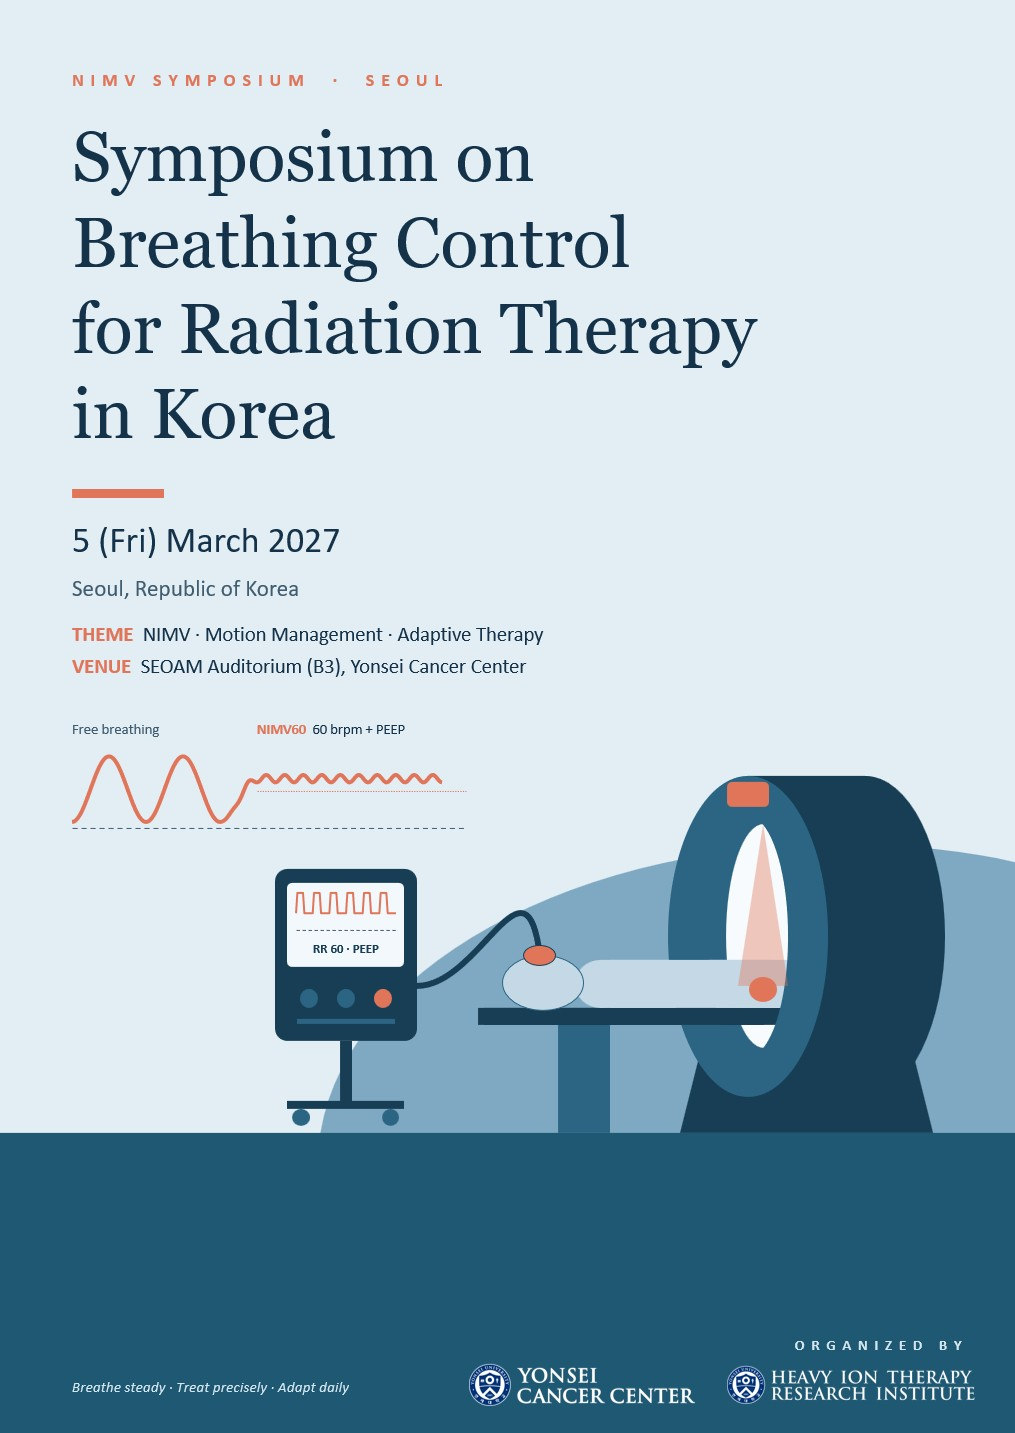
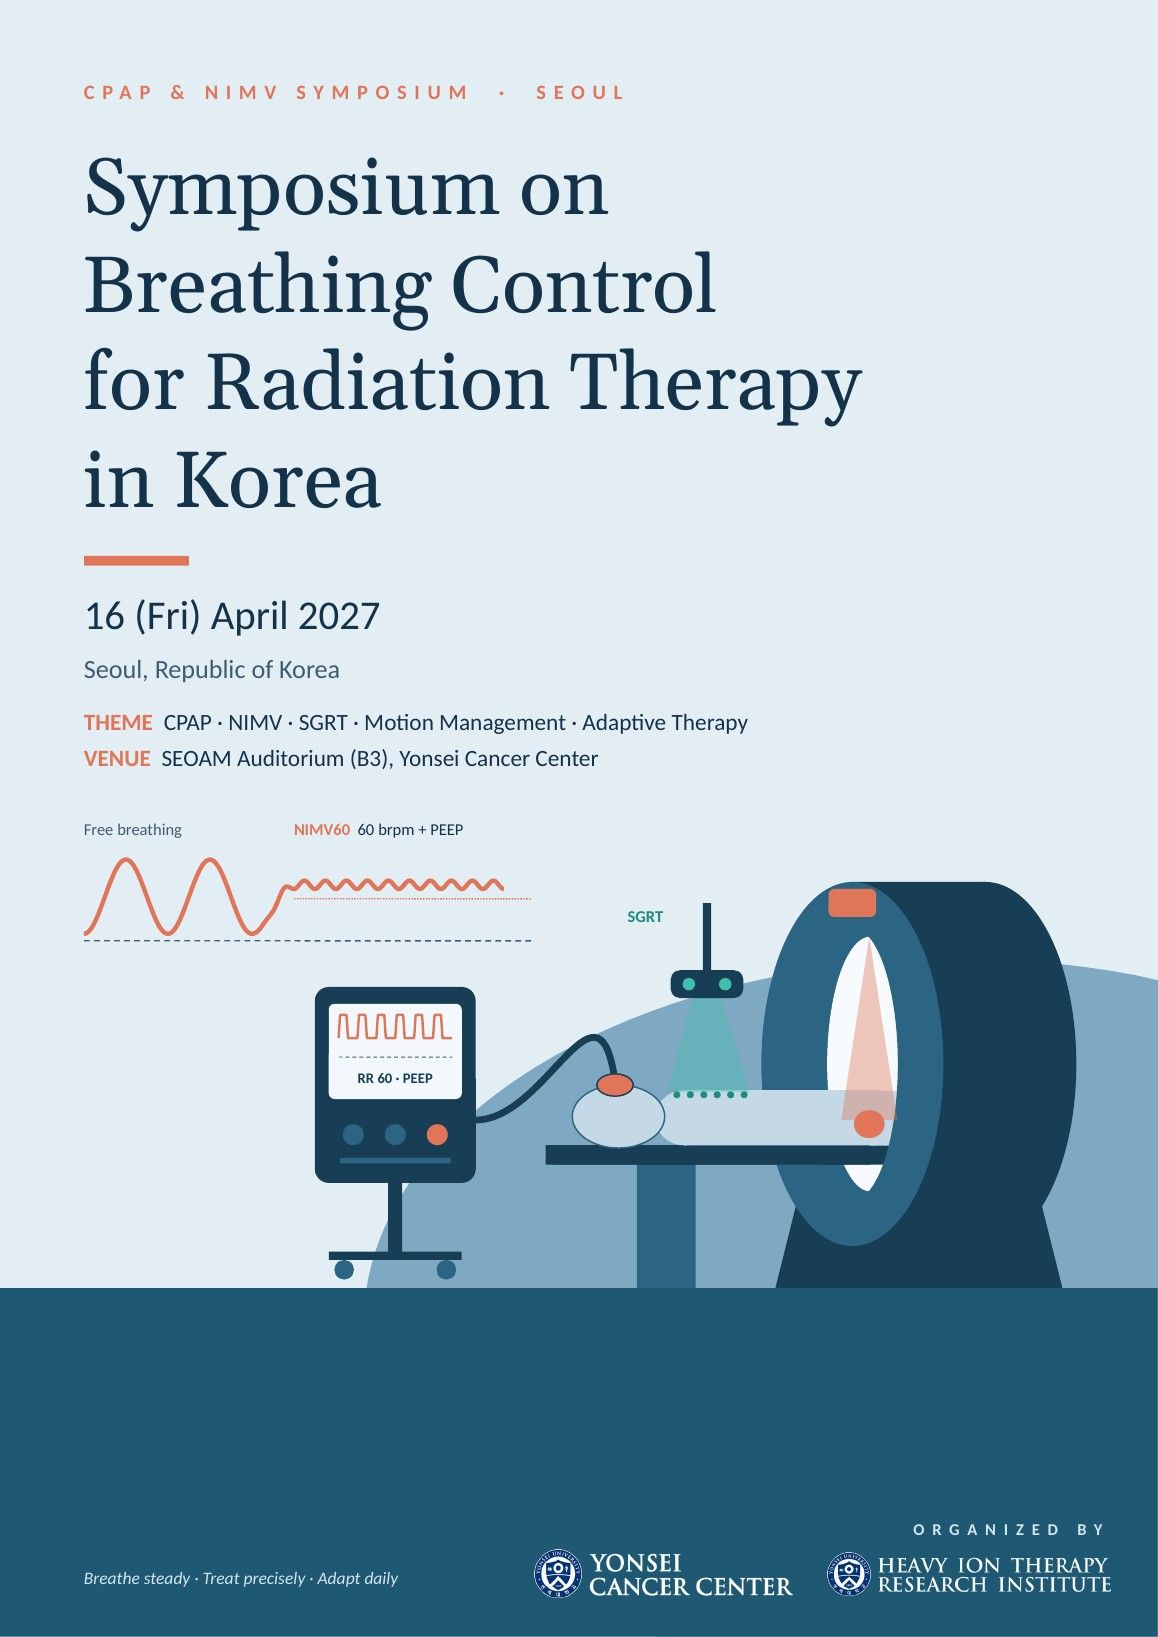
Speaker names, tentative titles (TBD), updated poster

diff --git a/index_en.html b/index_en.html
@@ -123,37 +123,37 @@
       <tr class="session"><td colspan="3"><span class="s-num">SESSION I</span>
         <span class="s-title">CPAP in Clinical Practice</span></td></tr>
       <tr><td class="time">13:10–13:30</td>
-        <td><div class="talk">CPAP</div><div class="who">Dosol Yoo <span>· Dongnam Institute of Radiological &amp; Medical Sciences</span></div></td>
+        <td><div class="talk">CPAP in Stereotactic Ablative Radiotherapy for Lung Tumors (TBD)</div><div class="who">Tosol Yu <span>· Dongnam Institute of Radiological &amp; Medical Sciences</span></div></td>
         <td class="type"><span class="badge badge-md">MD Talk</span></td></tr>
       <tr><td class="time">13:30–13:50</td>
-        <td><div class="talk">CPAP</div><div class="who">Joon Bok Lee <span>· Kangbuk Samsung Hospital</span></div></td>
+        <td><div class="talk">Integrating SGRT and CPAP in Breast Cancer Radiotherapy (TBD)</div><div class="who">Jason Joon Bock Lee <span>· Kangbuk Samsung Hospital</span></div></td>
         <td class="type"><span class="badge badge-md">MD Talk</span></td></tr>
       <tr><td class="time">13:50–14:10</td>
-        <td><div class="talk">CPAP</div><div class="who">Ji Hyun Chang <span>· Seoul National University Hospital</span></div></td>
+        <td><div class="talk">A Phase I/II Trial of CPAP for Heart Sparing in Breast Radiotherapy (TBD)</div><div class="who">Ji Hyun Chang <span>· Seoul National University Hospital</span></div></td>
         <td class="type"><span class="badge badge-md">MD Talk</span></td></tr>
       <tr class="break"><td class="time">14:10–14:30</td><td colspan="2"><div class="talk">Coffee Break</div></td></tr>
       <tr class="session"><td colspan="3"><span class="s-num">SESSION II</span>
         <span class="s-title">Building an NIMV Program</span></td></tr>
       <tr><td class="time">14:30–14:50</td>
-        <td><div class="talk">Implementation of NIMV into Radiation Therapy</div><div class="who">Changhwan Kim <span>· Yonsei Cancer Center</span></div></td>
+        <td><div class="talk">Implementation of NIMV into Radiation Therapy (TBD)</div><div class="who">Changhwan Kim <span>· Yonsei Cancer Center</span></div></td>
         <td class="type"><span class="badge badge-mp">Medical Physics Talk</span></td></tr>
       <tr><td class="time">14:50–15:10</td>
-        <td><div class="talk">Respiratory Education Team</div><div class="who">Jinhong Jung <span>· Asan Medical Center</span></div></td>
+        <td><div class="talk">Building a Respiratory Education Team for Breathing-Controlled Radiotherapy (TBD)</div><div class="who">Jinhong Jung <span>· Asan Medical Center</span></div></td>
         <td class="type"><span class="badge badge-md">MD Talk</span></td></tr>
       <tr><td class="time">15:10–15:30</td>
-        <td><div class="talk">Implementation of NIMV into Particle Therapy</div><div class="who">Sang Hoon Jung <span>· Samsung Medical Center</span></div></td>
+        <td><div class="talk">Implementation of NIMV into Particle Therapy (TBD)</div><div class="who">Sang Hoon Jung <span>· Samsung Medical Center</span></div></td>
         <td class="type"><span class="badge badge-mp">Medical Physics Talk</span></td></tr>
       <tr class="break"><td class="time">15:30–16:30</td><td colspan="2"><div class="talk">Break and Live NIMV Demonstration</div></td></tr>
       <tr class="session"><td colspan="3"><span class="s-num">SESSION III</span>
         <span class="s-title">NIMV-60p in Practice</span></td></tr>
       <tr><td class="time">16:30–16:50</td>
-        <td><div class="talk">NIMV-60p</div><div class="who">Nalee Kim <span>· Samsung Medical Center</span></div></td>
+        <td><div class="talk">Lessons from Routine NIMV-60p Practice at Samsung Medical Center (TBD)</div><div class="who">Nalee Kim <span>· Samsung Medical Center</span></div></td>
         <td class="type"><span class="badge badge-md">MD Talk</span></td></tr>
       <tr><td class="time">16:50–17:10</td>
-        <td><div class="talk">NIMV-60p + MANIV-DIBH</div><div class="who">Jee Suk Chang <span>· Yonsei Cancer Center</span></div></td>
+        <td><div class="talk">From NIMV-60p to MANIV-DIBH in Clinical Practice (TBD)</div><div class="who">Jee Suk Chang <span>· Yonsei Cancer Center</span></div></td>
         <td class="type"><span class="badge badge-md">MD Talk</span></td></tr>
       <tr><td class="time">17:10–17:30</td>
-        <td><div class="talk">NIMV-60p</div><div class="who">Hwa Kyung Byun <span>· Yongin Severance Hospital</span></div></td>
+        <td><div class="talk">Implementing NIMV-60p at Yongin Severance Hospital (TBD)</div><div class="who">Hwa Kyung Byun <span>· Yongin Severance Hospital</span></div></td>
         <td class="type"><span class="badge badge-md">MD Talk</span></td></tr>
       <tr class="plain"><td class="time">17:30–17:35</td><td colspan="2"><div class="talk">Closing Remarks</div></td></tr>
         </tbody>
@@ -167,49 +167,49 @@
       <h2 id="speakers-title">Invited speakers</h2>
       <div class="speakers">
       <article class="speaker">
-        <img class="avatar" src="assets/img/speakers/dosol_yoo.jpg" width="400" height="400" alt="Photo of Dosol Yoo" loading="lazy">
-        <div><h3>Dosol Yoo</h3><p class="aff">Dongnam Institute of Radiological &amp; Medical Sciences</p>
-          <p class="topic">CPAP</p></div>
+        <img class="avatar" src="assets/img/speakers/dosol_yoo.jpg" width="400" height="400" alt="Photo of Tosol Yu" loading="lazy">
+        <div><h3>Tosol Yu</h3><p class="aff">Dongnam Institute of Radiological &amp; Medical Sciences</p>
+          <p class="topic">CPAP in Stereotactic Ablative Radiotherapy for Lung Tumors (TBD)</p></div>
       </article>
       <article class="speaker">
-        <img class="avatar" src="assets/img/speakers/joonbok_lee.jpg" width="400" height="400" alt="Photo of Joon Bok Lee" loading="lazy">
-        <div><h3>Joon Bok Lee</h3><p class="aff">Kangbuk Samsung Hospital</p>
-          <p class="topic">CPAP</p></div>
+        <img class="avatar" src="assets/img/speakers/joonbok_lee.jpg" width="400" height="400" alt="Photo of Jason Joon Bock Lee" loading="lazy">
+        <div><h3>Jason Joon Bock Lee</h3><p class="aff">Kangbuk Samsung Hospital</p>
+          <p class="topic">Integrating SGRT and CPAP in Breast Cancer Radiotherapy (TBD)</p></div>
       </article>
       <article class="speaker">
         <img class="avatar" src="assets/img/speakers/jihyun_chang.jpg" width="400" height="400" alt="Photo of Ji Hyun Chang" loading="lazy">
         <div><h3>Ji Hyun Chang</h3><p class="aff">Seoul National University Hospital</p>
-          <p class="topic">CPAP</p></div>
+          <p class="topic">A Phase I/II Trial of CPAP for Heart Sparing in Breast Radiotherapy (TBD)</p></div>
       </article>
       <article class="speaker">
         <img class="avatar" src="assets/img/speakers/changhwan_kim.jpg" width="400" height="400" alt="Photo of Changhwan Kim" loading="lazy">
         <div><h3>Changhwan Kim</h3><p class="aff">Yonsei Cancer Center</p>
-          <p class="topic">Implementation of NIMV into Radiation Therapy</p></div>
+          <p class="topic">Implementation of NIMV into Radiation Therapy (TBD)</p></div>
       </article>
       <article class="speaker">
         <img class="avatar" src="assets/img/speakers/jinhong_jung.jpg" width="400" height="400" alt="Photo of Jinhong Jung" loading="lazy">
         <div><h3>Jinhong Jung</h3><p class="aff">Asan Medical Center</p>
-          <p class="topic">Respiratory Education Team</p></div>
+          <p class="topic">Building a Respiratory Education Team for Breathing-Controlled Radiotherapy (TBD)</p></div>
       </article>
       <article class="speaker">
         <img class="avatar" src="assets/img/speakers/sanghoon_jung.jpg" width="400" height="400" alt="Photo of Sang Hoon Jung" loading="lazy">
         <div><h3>Sang Hoon Jung</h3><p class="aff">Samsung Medical Center</p>
-          <p class="topic">Implementation of NIMV into Particle Therapy</p></div>
+          <p class="topic">Implementation of NIMV into Particle Therapy (TBD)</p></div>
       </article>
       <article class="speaker">
         <img class="avatar" src="assets/img/speakers/nalee_kim.jpg" width="400" height="400" alt="Photo of Nalee Kim" loading="lazy">
         <div><h3>Nalee Kim</h3><p class="aff">Samsung Medical Center</p>
-          <p class="topic">NIMV-60p</p></div>
+          <p class="topic">Lessons from Routine NIMV-60p Practice at Samsung Medical Center (TBD)</p></div>
       </article>
       <article class="speaker">
         <img class="avatar" src="assets/img/speakers/jeesuk_chang.jpg" width="400" height="400" alt="Photo of Jee Suk Chang" loading="lazy">
         <div><h3>Jee Suk Chang</h3><p class="aff">Yonsei Cancer Center</p>
-          <p class="topic">NIMV-60p + MANIV-DIBH</p></div>
+          <p class="topic">From NIMV-60p to MANIV-DIBH in Clinical Practice (TBD)</p></div>
       </article>
       <article class="speaker">
         <img class="avatar" src="assets/img/speakers/hwakyung_byun.jpg" width="400" height="400" alt="Photo of Hwa Kyung Byun" loading="lazy">
         <div><h3>Hwa Kyung Byun</h3><p class="aff">Yongin Severance Hospital</p>
-          <p class="topic">NIMV-60p</p></div>
+          <p class="topic">Implementing NIMV-60p at Yongin Severance Hospital (TBD)</p></div>
       </article>
       </div>
     </div>
@@ -260,7 +260,7 @@
 
   <section id="poster" aria-labelledby="poster-title">
     <div class="container poster-wrap">
-      <img src="assets/img/poster.jpg" width="1015" height="1433" alt="Symposium poster">
+      <img src="assets/img/poster.jpg" width="1158" height="1637" alt="Symposium poster">
       <div>
         <p class="section-label">Poster</p>
         <h2 id="poster-title">Share the poster</h2>

diff --git a/index.html b/index.html
@@ -123,37 +123,37 @@
       <tr class="session"><td colspan="3"><span class="s-num">SESSION I</span>
         <span class="s-title">CPAP 임상 적용</span></td></tr>
       <tr><td class="time">13:10–13:30</td>
-        <td><div class="talk">CPAP</div><div class="who">유도솔 교수 <span>· 동남권원자력의학원</span></div></td>
+        <td><div class="talk">CPAP in Stereotactic Ablative Radiotherapy for Lung Tumors (TBD)</div><div class="who">유도솔 교수 <span>· 동남권원자력의학원</span></div></td>
         <td class="type"><span class="badge badge-md">MD Talk</span></td></tr>
       <tr><td class="time">13:30–13:50</td>
-        <td><div class="talk">CPAP</div><div class="who">이준복 교수 <span>· 강북삼성병원</span></div></td>
+        <td><div class="talk">Integrating SGRT and CPAP in Breast Cancer Radiotherapy (TBD)</div><div class="who">이준복 교수 <span>· 강북삼성병원</span></div></td>
         <td class="type"><span class="badge badge-md">MD Talk</span></td></tr>
       <tr><td class="time">13:50–14:10</td>
-        <td><div class="talk">CPAP</div><div class="who">장지현 교수 <span>· 서울대학교병원</span></div></td>
+        <td><div class="talk">A Phase I/II Trial of CPAP for Heart Sparing in Breast Radiotherapy (TBD)</div><div class="who">장지현 교수 <span>· 서울대학교병원</span></div></td>
         <td class="type"><span class="badge badge-md">MD Talk</span></td></tr>
       <tr class="break"><td class="time">14:10–14:30</td><td colspan="2"><div class="talk">휴식</div></td></tr>
       <tr class="session"><td colspan="3"><span class="s-num">SESSION II</span>
         <span class="s-title">NIMV 프로그램 구축</span></td></tr>
       <tr><td class="time">14:30–14:50</td>
-        <td><div class="talk">Implementation of NIMV into Radiation Therapy</div><div class="who">김창환 교수 <span>· 연세암병원</span></div></td>
+        <td><div class="talk">Implementation of NIMV into Radiation Therapy (TBD)</div><div class="who">김창환 교수 <span>· 연세암병원</span></div></td>
         <td class="type"><span class="badge badge-mp">Medical Physics Talk</span></td></tr>
       <tr><td class="time">14:50–15:10</td>
-        <td><div class="talk">Respiratory Education Team</div><div class="who">정진홍 교수 <span>· 서울아산병원</span></div></td>
+        <td><div class="talk">Building a Respiratory Education Team for Breathing-Controlled Radiotherapy (TBD)</div><div class="who">정진홍 교수 <span>· 서울아산병원</span></div></td>
         <td class="type"><span class="badge badge-md">MD Talk</span></td></tr>
       <tr><td class="time">15:10–15:30</td>
-        <td><div class="talk">Implementation of NIMV into Particle Therapy</div><div class="who">정상훈 교수 <span>· 삼성서울병원</span></div></td>
+        <td><div class="talk">Implementation of NIMV into Particle Therapy (TBD)</div><div class="who">정상훈 교수 <span>· 삼성서울병원</span></div></td>
         <td class="type"><span class="badge badge-mp">Medical Physics Talk</span></td></tr>
       <tr class="break"><td class="time">15:30–16:30</td><td colspan="2"><div class="talk">휴식 및 NIMV 현장 시연</div></td></tr>
       <tr class="session"><td colspan="3"><span class="s-num">SESSION III</span>
         <span class="s-title">NIMV-60p 임상 경험</span></td></tr>
       <tr><td class="time">16:30–16:50</td>
-        <td><div class="talk">NIMV-60p</div><div class="who">김나리 교수 <span>· 삼성서울병원</span></div></td>
+        <td><div class="talk">Lessons from Routine NIMV-60p Practice at Samsung Medical Center (TBD)</div><div class="who">김나리 교수 <span>· 삼성서울병원</span></div></td>
         <td class="type"><span class="badge badge-md">MD Talk</span></td></tr>
       <tr><td class="time">16:50–17:10</td>
-        <td><div class="talk">NIMV-60p + MANIV-DIBH</div><div class="who">장지석 교수 <span>· 연세암병원</span></div></td>
+        <td><div class="talk">From NIMV-60p to MANIV-DIBH in Clinical Practice (TBD)</div><div class="who">장지석 교수 <span>· 연세암병원</span></div></td>
         <td class="type"><span class="badge badge-md">MD Talk</span></td></tr>
       <tr><td class="time">17:10–17:30</td>
-        <td><div class="talk">NIMV-60p</div><div class="who">변화경 교수 <span>· 용인세브란스병원</span></div></td>
+        <td><div class="talk">Implementing NIMV-60p at Yongin Severance Hospital (TBD)</div><div class="who">변화경 교수 <span>· 용인세브란스병원</span></div></td>
         <td class="type"><span class="badge badge-md">MD Talk</span></td></tr>
       <tr class="plain"><td class="time">17:30–17:35</td><td colspan="2"><div class="talk">폐회</div></td></tr>
         </tbody>
@@ -169,47 +169,47 @@
       <article class="speaker">
         <img class="avatar" src="assets/img/speakers/dosol_yoo.jpg" width="400" height="400" alt="유도솔 교수 사진" loading="lazy">
         <div><h3>유도솔 교수</h3><p class="aff">동남권원자력의학원</p>
-          <p class="topic">CPAP</p></div>
+          <p class="topic">CPAP in Stereotactic Ablative Radiotherapy for Lung Tumors (TBD)</p></div>
       </article>
       <article class="speaker">
         <img class="avatar" src="assets/img/speakers/joonbok_lee.jpg" width="400" height="400" alt="이준복 교수 사진" loading="lazy">
         <div><h3>이준복 교수</h3><p class="aff">강북삼성병원</p>
-          <p class="topic">CPAP</p></div>
+          <p class="topic">Integrating SGRT and CPAP in Breast Cancer Radiotherapy (TBD)</p></div>
       </article>
       <article class="speaker">
         <img class="avatar" src="assets/img/speakers/jihyun_chang.jpg" width="400" height="400" alt="장지현 교수 사진" loading="lazy">
         <div><h3>장지현 교수</h3><p class="aff">서울대학교병원</p>
-          <p class="topic">CPAP</p></div>
+          <p class="topic">A Phase I/II Trial of CPAP for Heart Sparing in Breast Radiotherapy (TBD)</p></div>
       </article>
       <article class="speaker">
         <img class="avatar" src="assets/img/speakers/changhwan_kim.jpg" width="400" height="400" alt="김창환 교수 사진" loading="lazy">
         <div><h3>김창환 교수</h3><p class="aff">연세암병원</p>
-          <p class="topic">Implementation of NIMV into Radiation Therapy</p></div>
+          <p class="topic">Implementation of NIMV into Radiation Therapy (TBD)</p></div>
       </article>
       <article class="speaker">
         <img class="avatar" src="assets/img/speakers/jinhong_jung.jpg" width="400" height="400" alt="정진홍 교수 사진" loading="lazy">
         <div><h3>정진홍 교수</h3><p class="aff">서울아산병원</p>
-          <p class="topic">Respiratory Education Team</p></div>
+          <p class="topic">Building a Respiratory Education Team for Breathing-Controlled Radiotherapy (TBD)</p></div>
       </article>
       <article class="speaker">
         <img class="avatar" src="assets/img/speakers/sanghoon_jung.jpg" width="400" height="400" alt="정상훈 교수 사진" loading="lazy">
         <div><h3>정상훈 교수</h3><p class="aff">삼성서울병원</p>
-          <p class="topic">Implementation of NIMV into Particle Therapy</p></div>
+          <p class="topic">Implementation of NIMV into Particle Therapy (TBD)</p></div>
       </article>
       <article class="speaker">
         <img class="avatar" src="assets/img/speakers/nalee_kim.jpg" width="400" height="400" alt="김나리 교수 사진" loading="lazy">
         <div><h3>김나리 교수</h3><p class="aff">삼성서울병원</p>
-          <p class="topic">NIMV-60p</p></div>
+          <p class="topic">Lessons from Routine NIMV-60p Practice at Samsung Medical Center (TBD)</p></div>
       </article>
       <article class="speaker">
         <img class="avatar" src="assets/img/speakers/jeesuk_chang.jpg" width="400" height="400" alt="장지석 교수 사진" loading="lazy">
         <div><h3>장지석 교수</h3><p class="aff">연세암병원</p>
-          <p class="topic">NIMV-60p + MANIV-DIBH</p></div>
+          <p class="topic">From NIMV-60p to MANIV-DIBH in Clinical Practice (TBD)</p></div>
       </article>
       <article class="speaker">
         <img class="avatar" src="assets/img/speakers/hwakyung_byun.jpg" width="400" height="400" alt="변화경 교수 사진" loading="lazy">
         <div><h3>변화경 교수</h3><p class="aff">용인세브란스병원</p>
-          <p class="topic">NIMV-60p</p></div>
+          <p class="topic">Implementing NIMV-60p at Yongin Severance Hospital (TBD)</p></div>
       </article>
       </div>
     </div>
@@ -260,7 +260,7 @@
 
   <section id="poster" aria-labelledby="poster-title">
     <div class="container poster-wrap">
-      <img src="assets/img/poster.jpg" width="1015" height="1433" alt="심포지엄 포스터">
+      <img src="assets/img/poster.jpg" width="1158" height="1637" alt="심포지엄 포스터">
       <div>
         <p class="section-label">포스터</p>
         <h2 id="poster-title">포스터 공유</h2>
